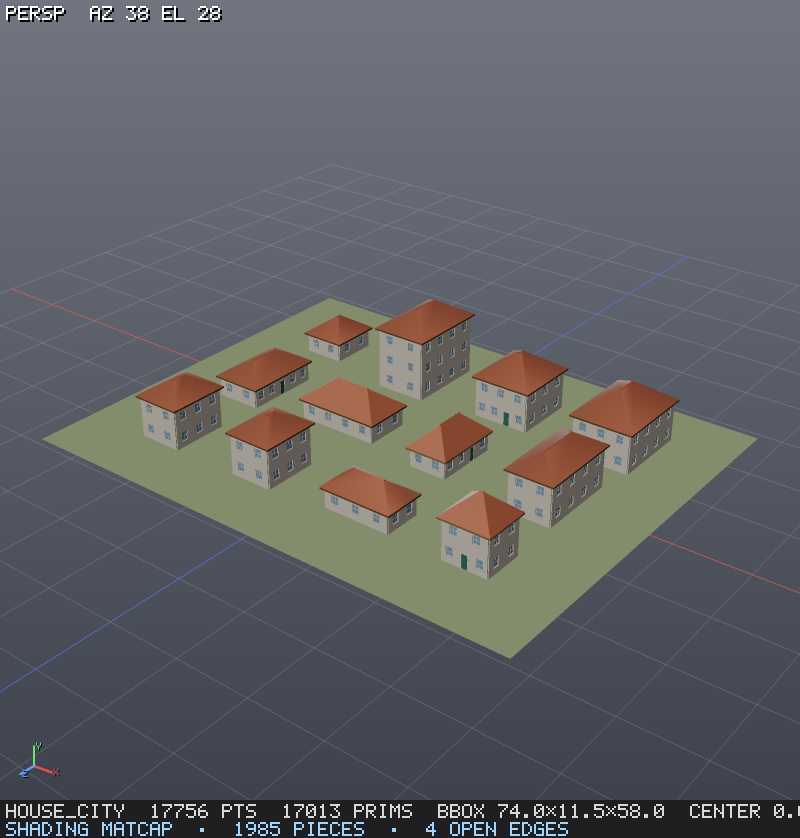
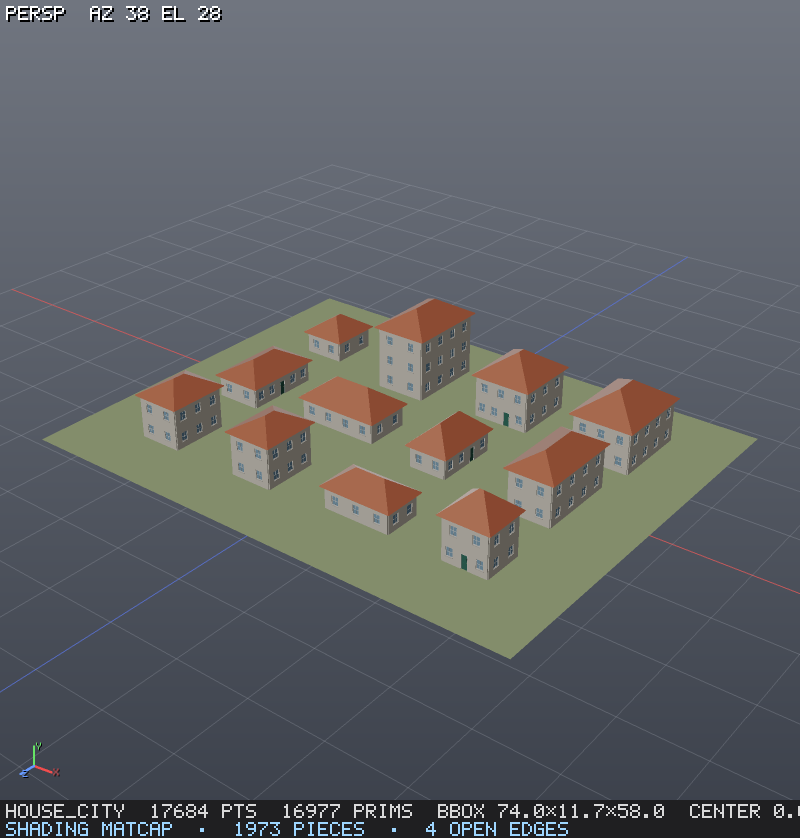
Shelf: house uses the straight-skeleton roof, so any footprint gets a correct hip roof

diff --git a/docs/nodes.md b/docs/nodes.md
@@ -7092,7 +7092,7 @@ None (generator).
 
 category: `shelf`
 
-House built from a footprint polygon: one wall_segment per footprint edge (facing outward, floors stacked, a door on the first edge), topped with a roof_hip sized to the footprint's box.
+House built from a footprint polygon: one wall_segment per footprint edge (facing outward, floors stacked, a door on the first edge), topped with a roof_skeleton hip roof that follows the footprint exactly (straight skeleton: L-shapes, courtyards and any simple polygon get correct valleys and ridges).
 
 ![house](../shelf/thumbs/house.png)
 
